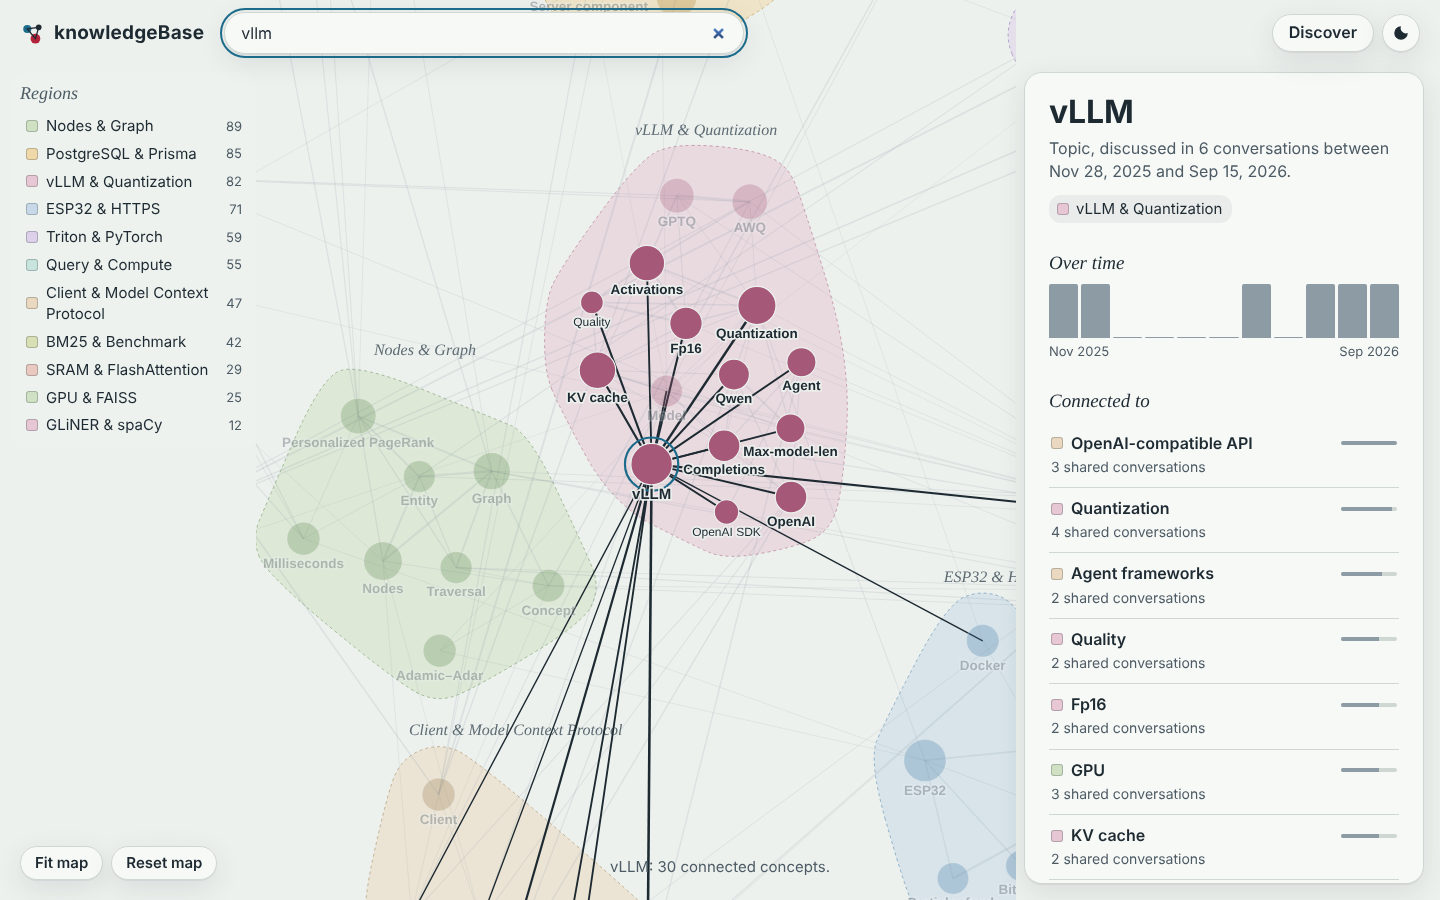
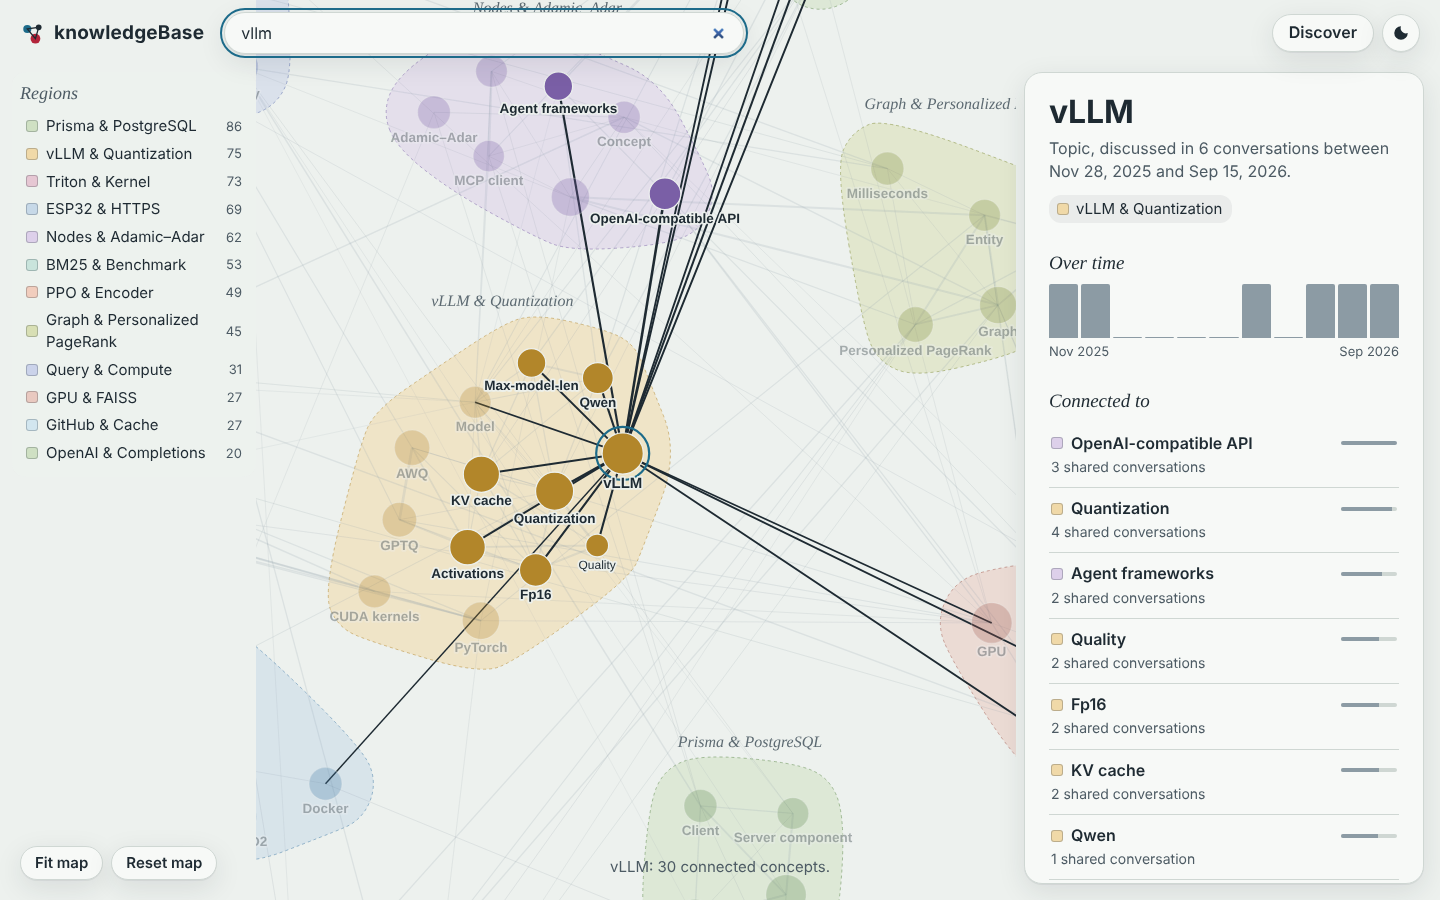
Atlas: collision-aware map lettering (most important names first); refresh screenshots
Claude-Session: https://claude.ai/code/session_01Q53JGjHhRU8pQ7m1LidQ49

diff --git a/src/knowledgebase/server/static/assets/app.js b/src/knowledgebase/server/static/assets/app.js
@@ -98,7 +98,8 @@ const Graph = ForceGraph()(mapEl)
   .nodePointerAreaPaint((n, color, ctx) => {
     ctx.fillStyle = color; ctx.beginPath(); ctx.arc(n.x, n.y, radius(n) + 3, 0, 2 * Math.PI); ctx.fill();
   })
-  .onRenderFramePre(drawTerritories)
+  .onRenderFramePre((ctx, scale) => { labelQueue = []; drawTerritories(ctx, scale); })
+  .onRenderFramePost(drawLabels)
   .onEngineStop(() => { if (fitPending) { fitPending = false; Graph.zoomToFit(ANIM, 90); } });
 let fitPending = false;
 
@@ -193,15 +194,32 @@ function drawNode(n, ctx, scale) {
     ctx.stroke();
   }
 
-  // Map lettering: always for big places and the active neighbourhood, otherwise once zoomed in.
-  const important = (n.importance || 0) / (state.maxImportance || 1) > 0.32;
-  if (isSel || inHood || onRoute || important || scale > 1.6) {
-    const size = (isSel ? 15 : important ? 13.5 : 12) / scale;
-    ctx.font = `${isSel || important ? 700 : 500} ${size}px "Barlow Semi Condensed", "Arial Narrow", sans-serif`;
-    ctx.textAlign = "center";
-    ctx.textBaseline = "top";
+  // Lettering is queued and placed after all places are drawn (see drawLabels).
+  const rel = (n.importance || 0) / (state.maxImportance || 1);
+  const priority = isSel ? 4 : onRoute ? 3 : inHood ? 2 : rel;
+  labelQueue.push({ n, r, priority, dimmed, strong: isSel || rel > 0.32 });
+  ctx.globalAlpha = 1;
+}
+
+// Map lettering, like a cartographer would place it: most important names first, and a name is
+// left out when it would collide with one already placed. Zooming in makes room for more.
+let labelQueue = [];
+function drawLabels(ctx, scale) {
+  const placed = [];
+  labelQueue.sort((a, b) => b.priority - a.priority);
+  ctx.textAlign = "center";
+  ctx.textBaseline = "top";
+  ctx.lineJoin = "round";
+  for (const { n, r, priority, dimmed, strong } of labelQueue) {
+    const size = (priority >= 4 ? 15 : strong ? 13.5 : 12) / scale;
+    ctx.font = `${strong ? 700 : 500} ${size}px "Barlow Semi Condensed", "Arial Narrow", sans-serif`;
+    const w = ctx.measureText(n.label).width;
     const y = n.y + r + 2.5 / scale;
-    ctx.lineJoin = "round";
+    const box = [n.x - w / 2 - 2 / scale, y - 1 / scale, n.x + w / 2 + 2 / scale, y + size + 1 / scale];
+    const collides = placed.some((b) => box[0] < b[2] && box[2] > b[0] && box[1] < b[3] && box[3] > b[1]);
+    if (collides && priority < 3) continue;
+    placed.push(box);
+    ctx.globalAlpha = dimmed ? 0.35 : 1;
     ctx.lineWidth = 3.4 / scale;
     ctx.strokeStyle = colors.halo;
     ctx.strokeText(n.label, n.x, y);
@@ -209,6 +227,7 @@ function drawNode(n, ctx, scale) {
     ctx.fillText(n.label, n.x, y);
   }
   ctx.globalAlpha = 1;
+  labelQueue = [];
 }
 
 function linkColor(l) {
